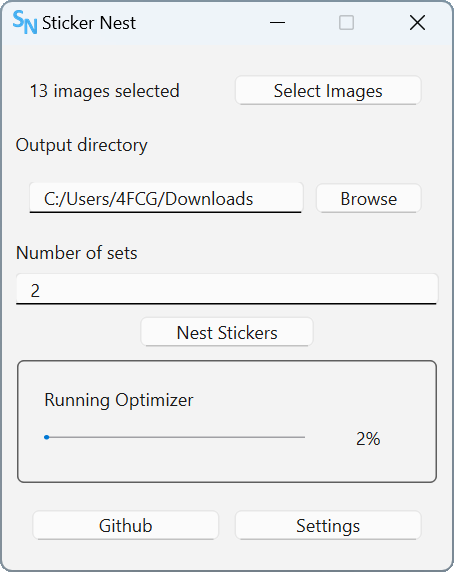
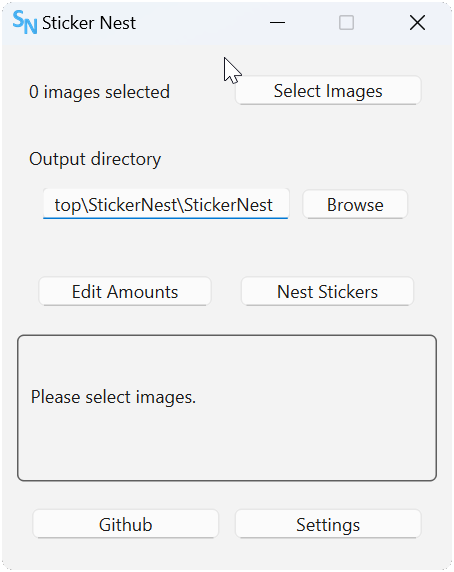
readme update

diff --git a/README.md b/README.md
@@ -24,7 +24,3 @@ The output bin size can be customized in millimeters. Using the dpi settings the
 ## UI Preview
 
 <img src="./imgs/app_interface.png" width="250">
-
-## Planned Features
-
-- Setting amounts of individual stickers.
